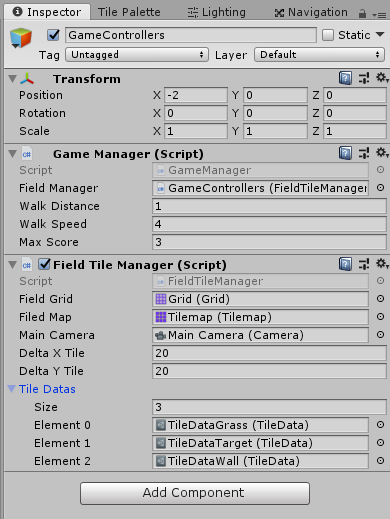
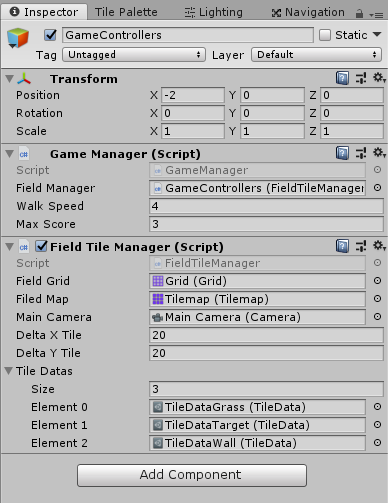
Final polish 3

Changed region(s): [[0.0, 0.0, 1.0, 1.0]]

diff --git a/Assets/Scripts/GameControls/GameManager.cs b/Assets/Scripts/GameControls/GameManager.cs
@@ -17,7 +17,7 @@ namespace GameControls
 		
 		public FieldManager fieldManager;
 
-		public int walkDistance;
+		public int walkDistance{get; private set;}
 		public float walkSpeed;
 		public int currentScore{get; private set;}
 
@@ -33,6 +33,7 @@ namespace GameControls
             }
 
 			currentScore = 0;
+			walkDistance = 1;
 
 			boxesContainer = new Dictionary<GameObject, BoxController>();
         }
